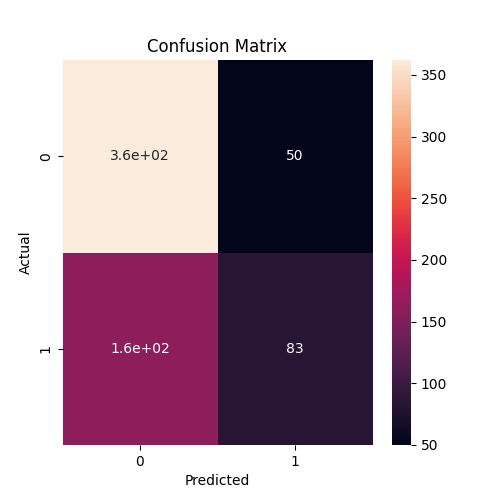
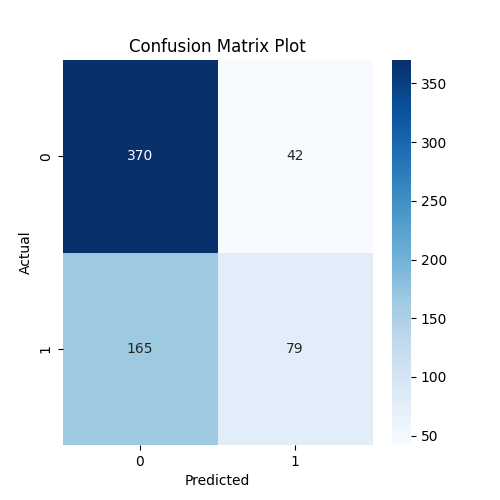
End to End Water Quality Prediction

diff --git a/GUI.py b/GUI.py
@@ -1,0 +1,119 @@
+import mlflow
+import pandas as pd
+import tkinter as tk
+from tkinter import messagebox
+import threading
+
+# Set the tracking URI to your DagsHub MLflow instance
+mlflow.set_tracking_uri("https://dagshub.com/Ayush-ak87/Water-Quality-Prediction.mlflow")
+
+# Specify the model name
+model_name = "Best Model"  # Registered model name
+
+class PredictionApp(tk.Tk):
+    def __init__(self):
+        super().__init__()
+
+        # Set up the window
+        self.title("Water Quality Prediction")
+        self.geometry("400x500")
+        self.configure(bg="#eaeaea")
+
+        # Create a frame for inputs
+        self.input_frame = tk.Frame(self, bg="#ffffff", padx=20, pady=20)
+        self.input_frame.pack(pady=20)
+
+        # Add a title label
+        title_label = tk.Label(self.input_frame, text="Water Quality Prediction", font=("Helvetica", 16, "bold"), bg="#ffffff")
+        title_label.grid(row=0, column=0, columnspan=2, pady=10)
+
+        # Create input fields using grid layout
+        self.create_input_fields()
+
+        # Create a button to make predictions
+        self.predict_button = tk.Button(self, text="Predict", command=self.run_prediction_thread, bg="#4CAF50", fg="white", font=("Helvetica", 12, "bold"))
+        self.predict_button.pack(pady=20)
+
+        # Load the model once at the start
+        self.loaded_model = self.load_model()
+
+    def create_input_fields(self):
+        # Define input labels and create entry fields
+        self.inputs = {}
+        labels = ['pH', 'Hardness', 'Solids', 'Chloramines', 'Sulfate', 'Conductivity', 'Organic_carbon', 'Trihalomethanes', 'Turbidity']
+        
+        for idx, label in enumerate(labels):
+            lbl = tk.Label(self.input_frame, text=label, bg="#ffffff", font=("Helvetica", 12))
+            lbl.grid(row=idx + 1, column=0, sticky="e", pady=5)
+
+            entry = tk.Entry(self.input_frame, width=25, font=("Helvetica", 12))
+            entry.grid(row=idx + 1, column=1, pady=5)
+            self.inputs[label] = entry
+
+    def load_model(self):
+        try:
+            # Create an MlflowClient to interact with the MLflow server
+            client = mlflow.tracking.MlflowClient()
+            # Get the latest version of the model in the Production stage
+            versions = client.get_latest_versions(model_name, stages=["Production"])
+
+            if versions:
+                latest_version = versions[0].version
+                run_id = versions[0].run_id  # Fetching the run ID from the latest version
+
+                # Construct the logged_model string
+                logged_model = f'runs:/{run_id}/{model_name}'
+                # Load the model
+                loaded_model = mlflow.pyfunc.load_model(logged_model)
+                print(f"Model loaded from {logged_model}")  # Debug message
+                return loaded_model
+            else:
+                messagebox.showerror("Error", "No model found in the 'Production' stage.")
+                return None
+        except Exception as e:
+            messagebox.showerror("Error", f"Error loading model: {e}")
+            return None
+
+    def run_prediction_thread(self):
+        """Run prediction in a separate thread to keep the GUI responsive."""
+        thread = threading.Thread(target=self.make_prediction)
+        thread.start()
+
+    def make_prediction(self):
+        try:
+            # Collect input data
+            input_data = {
+                'ph': [float(self.inputs['pH'].get())],
+                'Hardness': [float(self.inputs['Hardness'].get())],
+                'Solids': [float(self.inputs['Solids'].get())],
+                'Chloramines': [float(self.inputs['Chloramines'].get())],
+                'Sulfate': [float(self.inputs['Sulfate'].get())],
+                'Conductivity': [float(self.inputs['Conductivity'].get())],
+                'Organic_carbon': [float(self.inputs['Organic_carbon'].get())],
+                'Trihalomethanes': [float(self.inputs['Trihalomethanes'].get())],
+                'Turbidity': [float(self.inputs['Turbidity'].get())]
+            }
+
+            # Convert input data to DataFrame
+            data = pd.DataFrame(input_data)
+
+            if self.loaded_model is not None:
+                # Make prediction
+                prediction = self.loaded_model.predict(data)
+
+                # Determine if the water is potable or not based on prediction
+                if prediction[0] == 1:  # Assuming 1 indicates potable
+                    messagebox.showinfo("Prediction Result", "Water is potable.")
+                else:  # Assuming 0 indicates not potable
+                    messagebox.showinfo("Prediction Result", "Water is not potable.")
+                print(f"Prediction result: {prediction[0]}")  # Debug message
+            else:
+                messagebox.showerror("Error", "Model not loaded.")
+        except Exception as e:
+            messagebox.showerror("Error", "Error during prediction.")
+            print(f"Error during prediction: {e}")  # Debug message
+
+# Run the application
+if __name__ == "__main__":
+    app = PredictionApp()
+    app.mainloop()

diff --git a/src/model/model_evaluation.py b/src/model/model_evaluation.py
@@ -2,9 +2,21 @@ import numpy as np
 import pandas as pd
 import pickle
 import json
+import mlflow
+import seaborn as sns
+import matplotlib.pyplot as plt
 from dvclive import Live
 import yaml
-from sklearn.metrics import accuracy_score, precision_score, recall_score, f1_score
+import dagshub
+import mlflow.sklearn
+from mlflow import log_metric, log_param, log_artifact
+from sklearn.metrics import accuracy_score, precision_score, recall_score, f1_score, confusion_matrix
+from mlflow.models import infer_signature
+
+# Initialize DagsHub for experiment tracking
+dagshub.init(repo_owner='Ayush-ak87', repo_name='Water-Quality-Prediction', mlflow=True)
+mlflow.set_experiment("Final Model ")
+mlflow.set_tracking_uri("https://dagshub.com/Ayush-ak87/Water-Quality-Prediction.mlflow")
 
 def load_data(filepath: str) -> pd.DataFrame:
     try:
@@ -40,21 +52,37 @@ def evaluation_model(model, x_test: pd.DataFrame, y_test: pd.Series) -> dict:
         params = yaml.safe_load(open("params.yaml","r"))
         test_size = params["data_collection"]["test_size"]
         n_estimators = params["model_building"]["n_estimators"]
+
         y_pred = model.predict(x_test)
 
+        # Calculate Metrics
         acc = accuracy_score(y_test,y_pred)
         precision = precision_score(y_test,y_pred)
         recall  =recall_score(y_test,y_pred)
         f1 = f1_score(y_test,y_pred)
 
-        with Live(save_dvc_exp=True) as live:
-            live.log_metric("accuracy",acc)
-            live.log_metric("precision",precision)
-            live.log_metric("recall",recall)
-            live.log_metric("f1_score",f1)
+        # Log Params to MLFlow
+        mlflow.log_param("Test_size",test_size)
+        mlflow.log_param("n_estimators",n_estimators)
 
-            live.log_param("test_size",test_size)
-            live.log_param("n_estimators",n_estimators)
+        # Log metrics
+        mlflow.log_metric("accuracy", acc)
+        mlflow.log_metric("precision", precision)
+        mlflow.log_metric("recall", recall)
+        mlflow.log_metric("f1_score", f1)
+
+        # Confusion matrix
+        cm = confusion_matrix(y_test, y_pred)
+        plt.figure(figsize=(5, 5))
+        sns.heatmap(cm, annot=True, fmt='d', cmap='Blues')
+        plt.xlabel("Predicted")
+        plt.ylabel("Actual")
+        plt.title(f"Confusion Matrix Plot")
+        cm_path = f"confusion_matrix.png"
+        plt.savefig(cm_path)
+
+        # Log confusion matrix artifact
+        mlflow.log_artifact(cm_path)
 
         metrics_dict = {
 
@@ -83,8 +111,29 @@ def main():
         test_data = load_data(test_data_path)
         x_test,y_test = prepare_data(test_data)
         model = load_model(model_path)
-        metrics = evaluation_model(model, x_test, y_test)
-        save_metrics(metrics,metrics_path)
+
+        # Start MLflow run
+        with mlflow.start_run() as run:
+            metrics = evaluation_model(model, x_test, y_test)
+            save_metrics(metrics,metrics_path)
+
+            # Log artifacts
+            mlflow.log_artifact(model_path)
+            mlflow.log_artifact(metrics_path)
+            
+            # Log the source code file
+            mlflow.log_artifact(__file__)
+
+            signature = infer_signature(x_test,model.predict(x_test))
+
+            mlflow.sklearn.log_model(model,"Best Model",signature=signature)
+
+            #Save run ID and model info to JSON File
+            run_info = {'run_id': run.info.run_id, 'model_name': "Best Model"}
+            reports_path = "reports/run_info.json"
+            with open(reports_path, 'w') as file:
+                json.dump(run_info, file, indent=4)
+
     except Exception as e:
         raise Exception(f"An Error ocuured: {e}")
     

diff --git a/prediction.py b/prediction.py
@@ -1,0 +1,50 @@
+import mlflow
+import pandas as pd
+
+# Set the tracking URI to your DagsHub MLflow instance
+mlflow.set_tracking_uri("https://dagshub.com/Ayush-ak87/Water-Quality-Prediction.mlflow")
+
+# Specify the model name
+model_name = "Best Model"  # Registered model name
+
+try:
+    # Create an MlflowClient to interact with the MLflow server
+    client = mlflow.tracking.MlflowClient()
+
+    # Get the latest version of the model in the Production stage
+    versions = client.get_latest_versions(model_name, stages=["Production"])
+
+    if versions:
+        latest_version = versions[0].version
+        run_id = versions[0].run_id  # Fetching the run ID from the latest version
+        print(f"Latest version in Production: {latest_version}, Run ID: {run_id}")
+
+        # Construct the logged_model string
+        logged_model = f'runs:/{run_id}/{model_name}'
+        print("Logged Model:", logged_model)
+
+        # Load the model using the logged_model variable
+        loaded_model = mlflow.pyfunc.load_model(logged_model)
+        print(f"Model loaded from {logged_model}")
+
+        # Input data for prediction
+        data = pd.DataFrame({
+            'ph': [3.71608],
+            'Hardness': [204.89045],
+            'Solids': [20791.318981],
+            'Chloramines': [7.300212],
+            'Sulfate': [368.516441],
+            'Conductivity': [564.308654],
+            'Organic_carbon': [10.379783],
+            'Trihalomethanes': [86.99097],
+            'Turbidity': [2.963135]
+        })
+
+        # Make prediction
+        prediction = loaded_model.predict(data)
+        print("Prediction:", prediction)
+    else:
+        print("No model found in the 'Production' stage.")
+
+except Exception as e:
+    print(f"Error fetching model: {e}")

diff --git a/src/model/model_reg.py b/src/model/model_reg.py
@@ -1,0 +1,42 @@
+import json
+from mlflow.tracking import MlflowClient
+import mlflow
+
+import dagshub
+
+# Initialize DagsHub for experiment tracking
+dagshub.init(repo_owner='Ayush-ak87', repo_name='Water-Quality-Prediction', mlflow=True)
+mlflow.set_experiment("Final Model ")
+mlflow.set_tracking_uri("https://dagshub.com/Ayush-ak87/Water-Quality-Prediction.mlflow")
+
+# Load the run ID and model name from the saved JSON file
+reports_path = "reports/run_info.json"
+with open(reports_path, 'r') as file:
+    run_info = json.load(file)
+
+run_id = run_info['run_id'] # Fetch run id from the JSON file
+model_name = run_info['model_name']  # Fetch model name from the JSON file
+
+# Create an MLflow client
+client = MlflowClient()
+
+# Create the model URI
+model_uri = f"runs:/{run_id}/artifacts/{model_name}"
+
+# Register the model
+reg = mlflow.register_model(model_uri, model_name)
+
+# Get the model version
+model_version = reg.version  # Get the registered model version
+
+# Transition the model version to Staging
+new_stage = "Staging"
+
+client.transition_model_version_stage(
+    name=model_name,
+    version=model_version,
+    stage=new_stage,
+    archive_existing_versions=True
+)
+
+print(f"Model {model_name} version {model_version} transitioned to {new_stage} stage.")

diff --git a/src/data/data_transformation.py b/src/data/data_transformation.py
@@ -11,12 +11,12 @@ def load_data(filepath: str) -> pd.DataFrame:
 # train_data = pd.read_csv("./data/raw/train.csv")
 # test_data = pd.read_csv("./data/raw/test.csv")
 
-def fill_missing_with_median(df):
+def fill_missing_with_mean(df):
     try:
         for column in df.columns:
             if df[column].isnull().any():
-                median_value = df[column].median()
-                df[column].fillna(median_value, inplace=True)
+                mean_value = df[column].mean()
+                df[column].fillna(mean_value, inplace=True)
         return df
     except Exception as e:
         raise Exception(f"Error filling missing values: {e}")
@@ -38,8 +38,8 @@ def main():
         train_data = load_data(os.path.join(raw_data_path,"train.csv"))
         test_data = load_data(os.path.join(raw_data_path,"test.csv"))
 
-        train_processed_data = fill_missing_with_median(train_data)
-        test_processed_data = fill_missing_with_median(test_data)
+        train_processed_data = fill_missing_with_mean(train_data)
+        test_processed_data = fill_missing_with_mean(test_data)
 
     # data_path = os.path.join("data", "processed")
 
